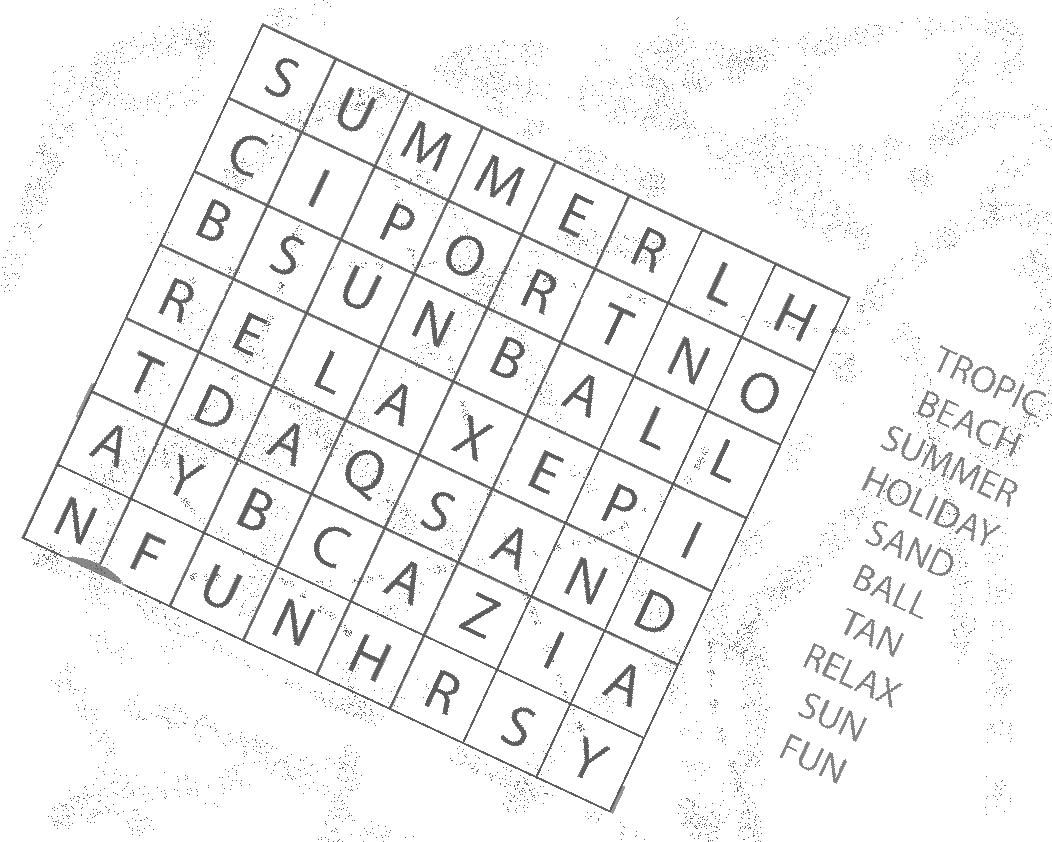
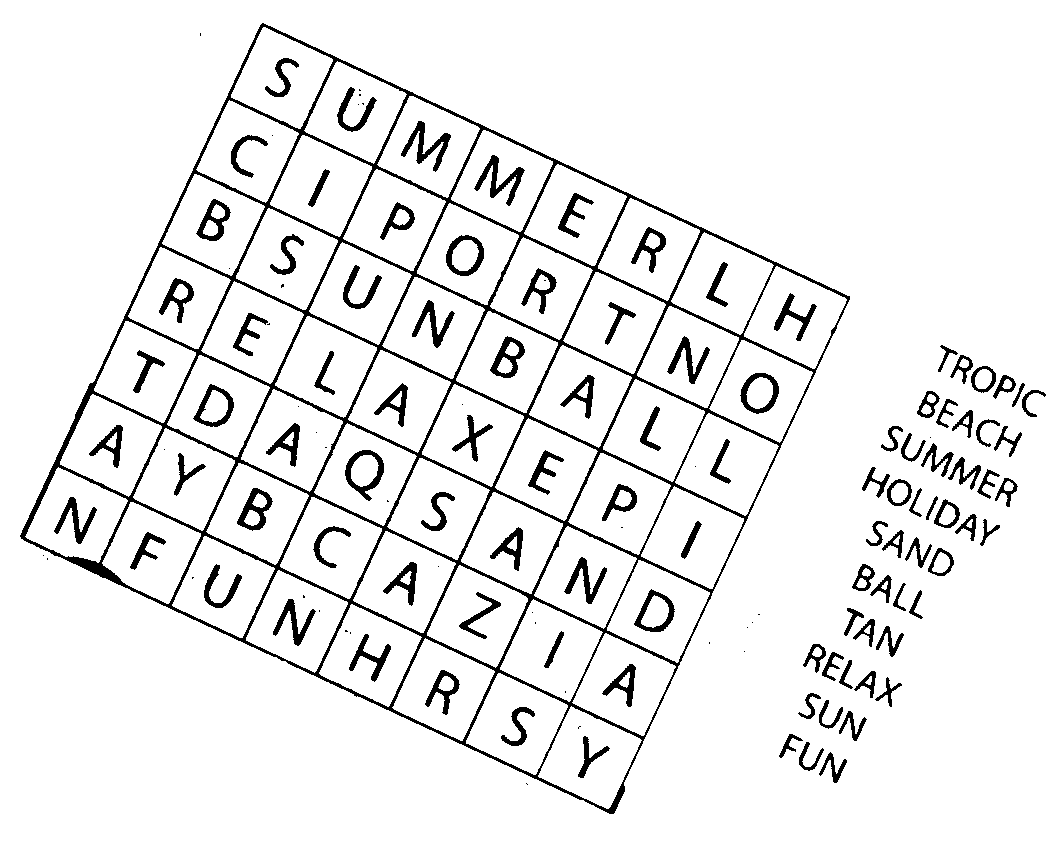
[Update] Improved preprocessing

diff --git a/Pretreatment/pretreatment.c b/Pretreatment/pretreatment.c
@@ -48,27 +48,6 @@ void contrast(SDL_Surface *surface, float contrastFactor) {
     }
 }
 
-void brightness(SDL_Surface *surface, int brightness) {
-    int width = surface->w;
-    int height = surface->h;
-    Uint32 *pixels = (Uint32 *)surface->pixels;
-
-    for (int y = 0; y < height; y++) {
-        for (int x = 0; x < width; x++) {
-            Uint32 pixel = pixels[y * width + x];
-            Uint8 r, g, b;
-
-            SDL_GetRGB(pixel, surface->format, &r, &g, &b);
-
-            r = SDL_clamp(r + brightness, 0, 255);
-            g = SDL_clamp(g + brightness, 0, 255);
-            b = SDL_clamp(b + brightness, 0, 255);
-
-            pixels[y * width + x] = SDL_MapRGB(surface->format, r, g, b);
-        }
-    }
-}
-
 void binarize(SDL_Surface *surface, Uint8 threshold) {
     Uint32* pixels = (Uint32*)surface->pixels;
     int width = surface->w;
@@ -82,9 +61,10 @@ void binarize(SDL_Surface *surface, Uint8 threshold) {
             
             Uint8 luminance = (Uint8)(0.299 * r + 0.587 * g + 0.114 * b);
 
-            if (luminance >= threshold) {
+            if (luminance >= threshold)
                 pixels[y * width + x] = SDL_MapRGB(surface->format, 255, 255, 255);
-            }
+            else
+                pixels[y * width + x] = SDL_MapRGB(surface->format, 0, 0, 0);
         }
     }
 }
@@ -206,7 +186,7 @@ typedef struct {
     int count;
 } Color;
 
-Uint32 get_major_color(SDL_Surface *surface) {
+Uint32 get_major_color(SDL_Surface *surface, int white) {
     int width = surface->w;
     int height = surface->h;
     Uint32 *pixels = (Uint32 *)surface->pixels;
@@ -248,14 +228,25 @@ Uint32 get_major_color(SDL_Surface *surface) {
         }
     }
 
+    int white_limit = 227;
     int max_count = 0;
     Uint8 dominant_r = 0, dominant_g = 0, dominant_b = 0;
     for (int i = 0; i < color_count; i++) {
         if (colorFreqs[i].count > max_count) {
-            max_count = colorFreqs[i].count;
-            dominant_r = colorFreqs[i].r;
-            dominant_g = colorFreqs[i].g;
-            dominant_b = colorFreqs[i].b;
+            if (white) {
+                max_count = colorFreqs[i].count;
+                dominant_r = colorFreqs[i].r;
+                dominant_g = colorFreqs[i].g;
+                dominant_b = colorFreqs[i].b;
+            }
+            else if (colorFreqs[i].r <= white_limit ||
+            colorFreqs[i].g <= white_limit ||
+            colorFreqs[i].b <= white_limit) {
+                max_count = colorFreqs[i].count;
+                dominant_r = colorFreqs[i].r;
+                dominant_g = colorFreqs[i].g;
+                dominant_b = colorFreqs[i].b;
+            }
         }
     }
 
@@ -302,7 +293,6 @@ double variance(SDL_Surface *surface) {
     return variance;
 }
 
-
 void ApplyPretreatment(char *filepath) {
     if (SDL_Init(SDL_INIT_VIDEO) != 0) {
         printf("SDL initialization error: %s\n", SDL_GetError());
@@ -334,19 +324,28 @@ void ApplyPretreatment(char *filepath) {
     }
 
     grayscale(surface);
-    int need_filter = variance(surface) < 1600;
-    contrast(surface, 60);
-    brightness(surface, -100);
-    //gaussian(surface, 5);
-    if (need_filter)
-        median(surface, 2);
+    
+    Uint32 major_color;
 
-    Uint32 major_color = get_major_color(surface);
+    if (variance(surface) < 500) {
+        contrast(surface, 50);
+        median(surface, 3);
+        major_color = get_major_color(surface, 1);
+    }
+    else if (variance(surface) < 1600) {
+        contrast(surface, 90);
+        gaussian(surface, 5);
+        major_color = get_major_color(surface, 0);
+    }
+    else {
+        contrast(surface, 50);
+        major_color = get_major_color(surface, 1);    
+    }
+
     Uint8 r, g, b;
     SDL_GetRGB(major_color, surface->format, &r, &g, &b);
+    printf("r: %d\ng: %d\nb: %d\n", r, g, b);
     binarize(surface, 0.299 * r + 0.587 * g + 0.114 * b);
-    //gaussian(surface, 3);
-    //median(surface, 2);
 
     if (SDL_SaveBMP(surface, filepath) != 0) {
         printf("Image saving error: %s\n", SDL_GetError());

diff --git a/Pretreatment/pretreatment.h b/Pretreatment/pretreatment.h
@@ -1,6 +1,16 @@
 #ifndef PRETREATMENT_H_
 #define PRETREATMENT_H_
 
+#include <SDL2/SDL.h>
+
+void grayscale(SDL_Surface *surface);
+void contrast(SDL_Surface *surface, float contrastFactor);
+void binarize(SDL_Surface *surface, Uint8 threshold);
+void gaussian(SDL_Surface *surface, int kernel_size);
+void median(SDL_Surface *surface, int kernel_size);
+Uint32 get_major_color(SDL_Surface *surface, int white);
+double variance(SDL_Surface *surface);
+
 void ApplyPretreatment(char *filepath);
 
 #endif
